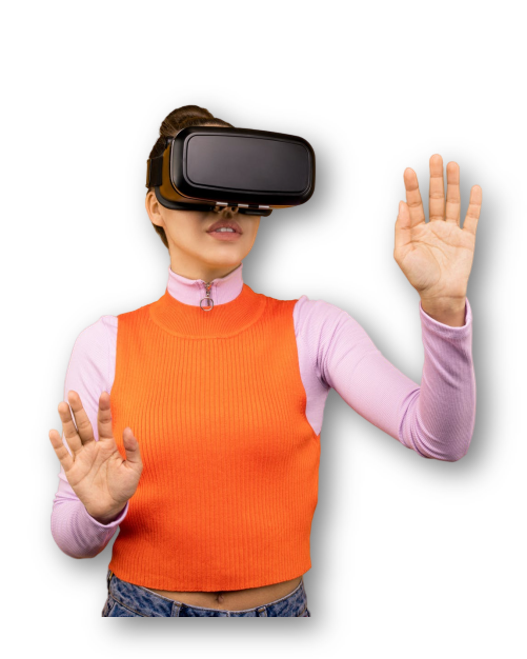
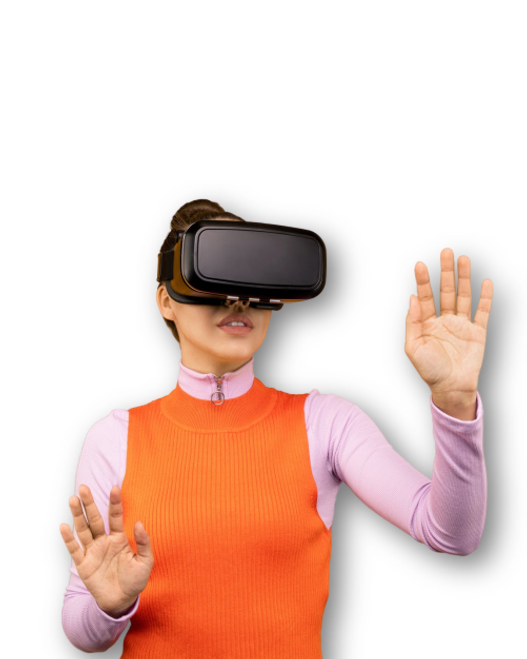
first commit

diff --git a/pages/components/Caixa3/index.tsx b/pages/components/Caixa3/index.tsx
@@ -1,4 +1,6 @@
 import React from 'react'
+import Image from 'next/image'
+import mulher3 from "../../../public/assets/mulher03.png"
 import {
   UncontrolledCarousel,
   Row,
@@ -23,9 +25,7 @@ const Caixa3 = (props) => {
             margin: 0;
         } 
         
-        .bgImagem_Caixa3{
-          background: url("./assets/mulher03.png") left center no-repeat;
-        }
+
 
         .Texto_Caixa3{
           font-family: "Roboto", sans-serif;
@@ -42,10 +42,7 @@ const Caixa3 = (props) => {
 
         }
 
-        .bgImagem_Caixa3{
-          background: url("./assets/mulher03.png") left  no-repeat;
-          background-position: left ;
-        }
+
 
         .fundo_laranja_caixa3{
           display: inline;
@@ -56,7 +53,18 @@ const Caixa3 = (props) => {
           display: inline;
           font-size: 40px;
         }
+        .image_mulhe3{
+          position:absolute; 
+          bottom: 0; 
+          margin: 0;
+          padding: 0;  
+          display: flex;        
+        }   
 
+        @media (max-width: 1000px) {
+          .image_mulhe3{display: none;}
+
+        }        
 
       `}</style>
 
@@ -65,17 +73,20 @@ const Caixa3 = (props) => {
           <TabContent id="myTabContent" activeTab={hTabsIcons}>
             <TabPane tabId="hTabsIcons-1" role="tabpanel">
 
-              <div className="bgImagem_Caixa3">
-                <div className="container-fluid">
-                    <div className="row" >
-                      <div className="col-md-6">
-                      </div>
-                      <div className="col-md-6" >
-                        <p className="Texto_Caixa3"><span className="aspas"><strong>“</strong></span>OUR GOAL IS TO CONTRIBUTE TO THE DEVELOPMENT OF A NEW CONSCIOUSNESS AND <span className="fundo_laranja_caixa3">A BETTER WORLD.</span><span className="aspas"><strong>”</strong></span></p>
-                      </div>
-                    </div>
-                  </div>
+
+              <div className="row" >
+                <div className="col-md-6">
+                  <span className="image_mulhe3">
+                      <Image src={mulher3} alt="Transcender Studios" />  
+                    </span>                        
+                </div>
+                <div className="col-md-6" >
+                  <p className="Texto_Caixa3"><span className="aspas"><strong>“</strong></span>OUR GOAL IS TO CONTRIBUTE TO THE DEVELOPMENT OF A NEW CONSCIOUSNESS AND <span className="fundo_laranja_caixa3">A BETTER WORLD.</span><span className="aspas"><strong>”</strong></span></p>
+                </div>
               </div>
+
+
+
 
               
             </TabPane>

diff --git a/pages/components/Caixa1/index.tsx b/pages/components/Caixa1/index.tsx
@@ -1,4 +1,6 @@
 import React from 'react'
+import Image from 'next/image'
+import mulher1 from "../../../public/assets/mulher01.png"
 import {
   UncontrolledCarousel,
   Row,
@@ -16,14 +18,7 @@ const Caixa1 = (props) => {
     <>
 
       <style>{` 
-        .menu {
-          padding: 0px;
-          margin: 0px;
-          /* centraliza na vertical */
-          float: right;
-          display: flex; 
-          color: #f00;
-        }
+
 
 
         div[name="cartao_caixa1"] {
@@ -49,8 +44,6 @@ const Caixa1 = (props) => {
 
         div[name="Texto_Card_Caixa1"] {
           margin: 0; 
-          
-             
         }    
 
 
@@ -74,6 +67,19 @@ const Caixa1 = (props) => {
 
         .bgImagem_Caixa1{
           background: url("./assets/mulher01.png") left center no-repeat;
+        } 
+        
+        .image_mulhe1{
+          position:absolute; 
+          bottom: 0; 
+          margin: 0;
+          padding: 0;  
+          display: flex;        
+        }
+
+        @media (max-width: 1000px) {
+          .image_mulhe1{display: none;}
+
         }        
 
       `}</style>
@@ -83,12 +89,14 @@ const Caixa1 = (props) => {
           <TabContent id="myTabContent" activeTab={hTabsIcons}>
             <TabPane tabId="hTabsIcons-1" role="tabpanel">
 
-              <div className="bgImagem_Caixa1">
+              <div >
 
                 <div className="container-fluid" >
                   <div className="row" >
-                    <div className="col-md-6" >
-
+                    <div className="col-md-6 " >
+                      <span className="image_mulhe1">
+                        <Image src={mulher1} alt="Transcender Studios" />  
+                      </span>
                     </div >
                     <div className="col-md-6" >
                       <p className="Texto_Caixa1">

diff --git a/pages/components/Caixa2/index.tsx b/pages/components/Caixa2/index.tsx
@@ -1,4 +1,6 @@
 import React from 'react'
+import Image from 'next/image'
+import mulher2 from "../../../public/assets/mulher02.png"
 import {
   UncontrolledCarousel,
   Row,
@@ -58,6 +60,19 @@ const Caixa2 = (props) => {
           position:relative;
         }  
 
+        .image_mulhe2{
+          position:absolute; 
+          bottom: 0; 
+          margin: 0;
+          padding: 0;  
+          display: flex;        
+        }   
+
+        @media (max-width: 1000px) {
+          .image_mulhe2{display: none;}
+
+        }   
+
       `}</style>
 
       <Card className="shadow" >
@@ -65,7 +80,7 @@ const Caixa2 = (props) => {
           <TabContent id="myTabContent" activeTab={hTabsIcons}>
             <TabPane tabId="hTabsIcons-1" role="tabpanel">
 
-              <div className="bgImagem_Caixa2">
+              <div >
 
                 <div className="container-fluid">
                     <div className="row" >
@@ -77,6 +92,10 @@ Of course, this meeting can and should be within ourselves, but let us be honest
                         </p>
                       </div>
                       <div className="col-md-6" >
+                        <span className="image_mulhe2">
+                          <Image src={mulher2} alt="Transcender Studios" />  
+                        </span>
+                        
                       </div>
                     </div>
                 </div>

diff --git a/pages/index.tsx b/pages/index.tsx
@@ -19,7 +19,8 @@ export default function Home() {
       <Head>
         <title>Transcender Studios</title>
         <meta name="description" content="Transcender Studios" />
-        <link rel="icon" href="./assets/favicon.ico" />
+        <link rel="icon" href="../public/assets/favicon.ico" />
+        <meta name="viewport" content="width=device-width, initial-scale=1.0"></meta>
         <link rel="stylesheet" href="https://use.fontawesome.com/releases/v5.0.8/css/all.css" />
         <link href="https://fonts.googleapis.com/css2?family=Roboto:wght@100;400;500" rel="stylesheet" />
         <link href="https://fonts.googleapis.com/css2?family=Bebas+Neue" rel="stylesheet" />
